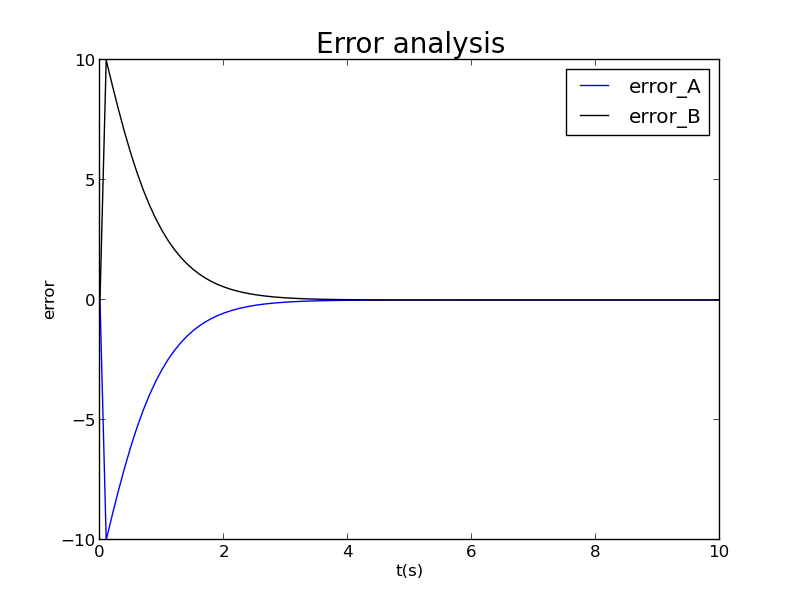
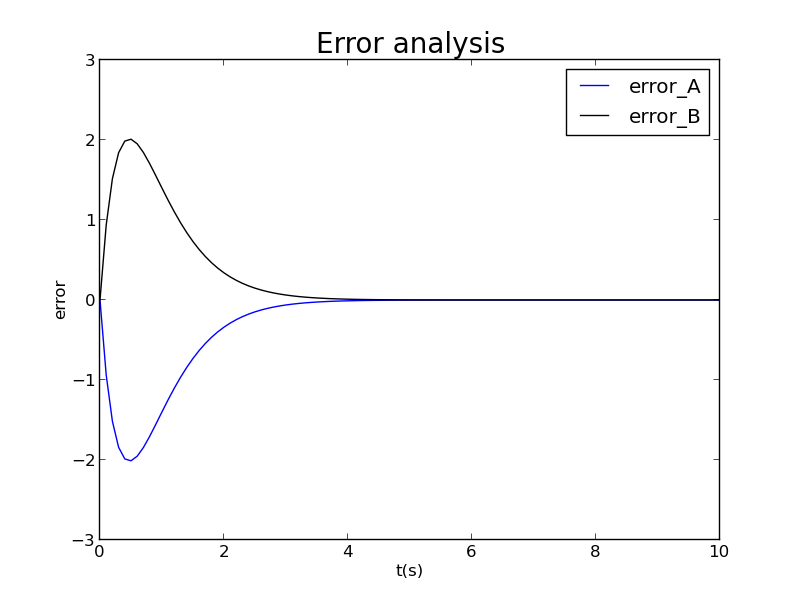
update files

diff --git a/chapter1g.py b/chapter1g.py
@@ -42,9 +42,9 @@ for i in range(int(time/dt)):
     B=N_B[i]+dt/tau*(N_A[i]-N_B[i])
     N_B.append(B)
     t.append(t[i]+dt)
-    Ae=(N_A0+N_B0+(N_A0-N_B0)*exp(-2*t[i]/tau))/2
+    Ae=(N_A0+N_B0+(N_A0-N_B0)*exp(-2*t[i+1]/tau))/2#Attn:t[i+1]!
     N_A_exact.append(Ae)
-    Be=(N_A0+N_B0-(N_A0-N_B0)*exp(-2*t[i]/tau))/2
+    Be=(N_A0+N_B0-(N_A0-N_B0)*exp(-2*t[i+1]/tau))/2
     N_B_exact.append(Be)
     error_A.append(A-Ae)
     error_B.append(B-Be)
